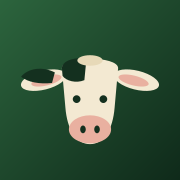
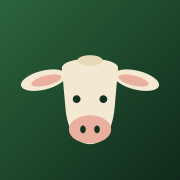
Remove manchas escuras do ícone da vaca
Claude-Session: https://claude.ai/code/session_01FMutxVmL6PacfE3tAsER1s

Changed region(s): [[0.3333, 0.3056, 0.5, 0.4722], [0.1111, 0.3611, 0.3056, 0.4722]]

diff --git a/src/components/Logo.tsx b/src/components/Logo.tsx
@@ -16,9 +16,7 @@ export function LogoMark() {
   <ellipse cx="388" cy="236" rx="66" ry="27" transform="rotate(14 388 236)" fill="#f3e9d2"/>
   <ellipse cx="132" cy="237" rx="44" ry="14" transform="rotate(-14 132 237)" fill="#e9b0a0"/>
   <ellipse cx="380" cy="237" rx="44" ry="14" transform="rotate(14 380 237)" fill="#e9b0a0"/>
-  <path d="M60 226c20-24 60-30 96-12l-8 30c-34 4-70-2-88-18z" fill="#14301f"/>
   <path d="M176 202c0-36 160-36 160 0l-10 112c-5 62-30 104-70 104s-65-42-70-104z" fill="#f3e9d2"/>
-  <path d="M176 202c0-24 44-32 70-28l-6 62c-24 10-52 2-62-12z" fill="#14301f"/>
   <ellipse cx="256" cy="180" rx="36" ry="15" fill="#e7d9b8"/>
   <circle cx="218" cy="290" r="11" fill="#14301f"/><circle cx="294" cy="290" r="11" fill="#14301f"/>
   <ellipse cx="256" cy="376" rx="60" ry="40" fill="#e9b0a0"/>
